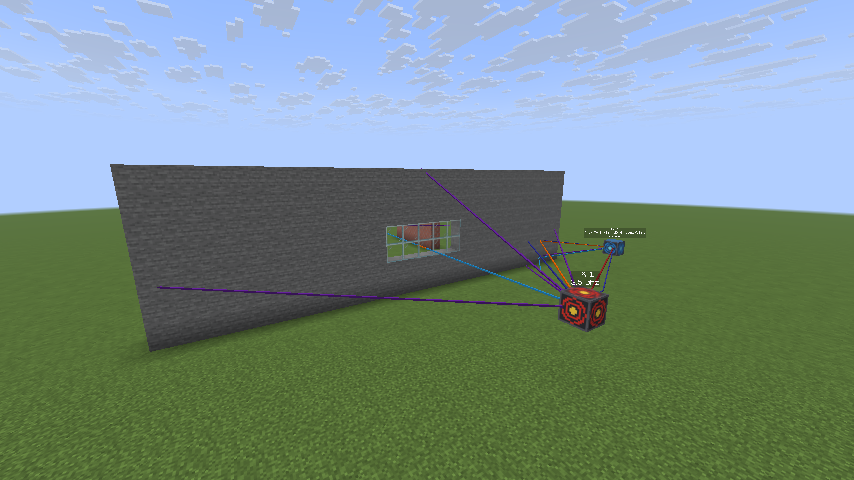
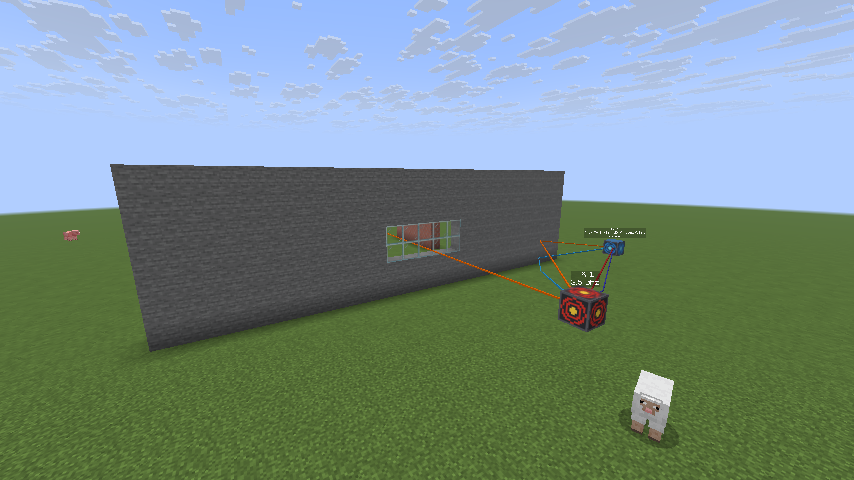
Fix review findings: drop paths bouncing inside walls, material rule mistakes, threading edge cases
- Drop paths that reflect off a wall face from inside a solid block (Sionna treats
  walls as two thin sheets); compute h_freq from the filtered paths
- Material rules: sea lanterns / dried kelp blocks stay solid, heavy_core is metal,
  waterlogged air-like blocks stay water
- Strict true/false parsing on both sides; wall depth cap raised to 64 (bucketed)
- Mod: queue auto-runs behind the triggering block change, skip replies after
  shutdown, only scan chunks that are really loaded, refuse stale ray entities on load

diff --git a/src/mc_sionna/sim.py b/src/mc_sionna/sim.py
@@ -30,6 +30,31 @@ DEFAULTS = {
 _INTERACTIONS = {1: "reflection", 2: "diffuse", 4: "refraction", 8: "diffraction"}
 
 
+def _flag(v) -> bool:
+    return v if isinstance(v, bool) else str(v).strip().lower() in ("true", "1", "yes", "on")
+
+
+def _bounces_inside_solid(mat: np.ndarray, start: np.ndarray, verts: np.ndarray, inter: np.ndarray) -> bool:
+    """True if the path reflects off a face from inside a solid block.
+
+    Sionna sees a wall as two thin sheets with empty space between them, so a ray that
+    crossed one face can bounce off the wall's other faces from the inside. Those paths
+    don't exist in reality. start: tx in Minecraft coords relative to the region origin;
+    verts/inter: this path's bounce points (scene coords) and interaction types.
+    """
+    prev = start
+    for v, kind in zip(verts, inter, strict=True):
+        if kind == 0:
+            break
+        v = scene_to_mc(v)
+        if kind & 3:  # specular or diffuse reflection
+            i = np.floor((prev + v) / 2).astype(int)
+            if np.all(i >= 0) and np.all(i < mat.shape) and mat[tuple(i)] > 0:
+                return True
+        prev = v
+    return False
+
+
 def simulate(req: dict, out_dir: Path) -> dict:
     t0 = time.perf_counter()
     s = DEFAULTS | req.get("settings", {})
@@ -68,7 +93,7 @@ def simulate(req: dict, out_dir: Path) -> dict:
     # Diffraction needs shared mesh edges, so weld coincident corners when it's on.
     # ponytail: merged rectangles still leave T-junctions where no edge is found; split faces
     # at every block corner if diffraction ever matters.
-    scene = load_scene(str(xml_path), merge_shapes=False, remove_duplicate_vertices=bool(s["diffraction"]))
+    scene = load_scene(str(xml_path), merge_shapes=False, remove_duplicate_vertices=_flag(s["diffraction"]))
     scene.frequency = freq
     scene.tx_array = PlanarArray(num_rows=1, num_cols=1, pattern="iso", polarization="V")
     scene.rx_array = PlanarArray(num_rows=1, num_cols=1, pattern="iso", polarization="V")
@@ -83,9 +108,9 @@ def simulate(req: dict, out_dir: Path) -> dict:
         max_depth=int(s["max_depth"]),
         los=True,
         specular_reflection=True,
-        diffuse_reflection=bool(s["diffuse"]),
-        refraction=bool(s["refraction"]),
-        diffraction=bool(s["diffraction"]),
+        diffuse_reflection=_flag(s["diffuse"]),
+        refraction=_flag(s["refraction"]),
+        diffraction=_flag(s["diffraction"]),
         synthetic_array=True,
     )
     solve_s = time.perf_counter() - t_solve
@@ -95,12 +120,16 @@ def simulate(req: dict, out_dir: Path) -> dict:
     a, tau = paths.cir(normalize_delays=False, out_type="numpy")
     a = a[:, 0, :, 0, :, 0]
     valid = np.array(paths.valid, dtype=bool)
-    a = np.where(valid, a, 0)
     verts = np.array(paths.vertices)
     inter = np.array(paths.interactions)
+    for r, t, k in np.argwhere(valid):
+        if _bounces_inside_solid(mat, tx_mc[t] - origin, verts[:, r, t, k], inter[:, r, t, k]):
+            valid[r, t, k] = False
+    a = np.where(valid, a, 0)
     n_sc = int(s["num_subcarriers"])
-    freqs = subcarrier_frequencies(n_sc, s["bandwidth_mhz"] * 1e6 / n_sc)
-    h = paths.cfr(frequencies=freqs, normalize_delays=False, out_type="numpy")[:, 0, :, 0, 0, :]
+    freqs = np.array(subcarrier_frequencies(n_sc, s["bandwidth_mhz"] * 1e6 / n_sc), np.float64)
+    # same formula as Sionna's Paths.cfr, done here so the dropped paths stay dropped
+    h = (a[..., None] * np.exp(-2j * np.pi * freqs * np.where(valid, tau, 0)[..., None])).sum(axis=2)
 
     gain = np.abs(a) ** 2
     links = []
@@ -144,7 +173,7 @@ def simulate(req: dict, out_dir: Path) -> dict:
         "tau": tau.astype(np.float32),
         "valid": valid,
         "h_freq": h.astype(np.complex64),
-        "subcarrier_offsets_hz": np.array(freqs, np.float64),
+        "subcarrier_offsets_hz": freqs,
         "frequency_hz": np.float64(freq),
         "vertices": verts.astype(np.float32),
         "interactions": inter.astype(np.uint32),

diff --git a/mod/src/main/java/dev/mcsionna/Simulation.java b/mod/src/main/java/dev/mcsionna/Simulation.java
@@ -15,8 +15,11 @@ import java.time.Duration;
 import java.util.ArrayList;
 import java.util.Base64;
 import java.util.HashMap;
+import java.util.HashSet;
 import java.util.List;
 import java.util.Map;
+import java.util.Set;
+import java.util.UUID;
 import java.util.function.Consumer;
 import java.util.stream.Stream;
 import net.minecraft.ChatFormatting;
@@ -24,6 +27,7 @@ import net.minecraft.commands.CommandSourceStack;
 import net.minecraft.core.BlockPos;
 import net.minecraft.core.registries.BuiltInRegistries;
 import net.minecraft.network.chat.Component;
+import net.minecraft.server.MinecraftServer;
 import net.minecraft.server.level.ServerLevel;
 import net.minecraft.tags.FluidTags;
 import net.minecraft.util.Brightness;
@@ -59,8 +63,9 @@ public final class Simulation {
 
 	static void autoRun(ServerLevel level, BlockPos pos) {
 		if (Boolean.parseBoolean(McSionna.SETTINGS.get("auto_run"))) {
-			// run after the block change that triggered us has finished
-			level.getServer().execute(() -> request(level, pos, null));
+			// schedule() always queues, so we run after the block change that triggered us has finished
+			MinecraftServer server = level.getServer();
+			server.schedule(server.wrapRunnable(() -> request(level, pos, null)));
 		}
 	}
 
@@ -110,6 +115,11 @@ public final class Simulation {
 		}
 		HTTP.sendAsync(req, HttpResponse.BodyHandlers.ofString()).whenComplete((resp, err) -> level.getServer().execute(() -> {
 			running = false;
+			if (!level.getServer().isSameThread()) {
+				// the server stopped while we waited, so execute() ran us on the HTTP thread
+				pending = null;
+				return;
+			}
 			try {
 				if (err != null) {
 					tell.accept(error("could not reach the Sionna service at " + url + " (is `uv run mc-sionna-server` running?): " + err));
@@ -133,8 +143,15 @@ public final class Simulation {
 		}));
 	}
 
+	/**
+	 * Ray and label entities from the latest drawing. Older ones still saved in unloaded chunks are
+	 * refused when those chunks load (see McSionna), so stale drawings never come back.
+	 */
+	static final Set<UUID> CURRENT = new HashSet<>();
+
 	/** Remove every ray and label entity in loaded chunks. */
 	static int clear(ServerLevel level) {
+		CURRENT.clear();
 		List<Entity> old = new ArrayList<>();
 		for (Entity e : level.getAllEntities()) {
 			if (e.entityTags().contains(RAY_TAG) || e.entityTags().contains(LABEL_TAG)) {
@@ -205,6 +222,7 @@ public final class Simulation {
 		e.setBrightnessOverride(new Brightness(15, 15));
 		e.setViewRange(4f);
 		e.addTag(RAY_TAG);
+		CURRENT.add(e.getUUID());
 		level.addFreshEntity(e);
 	}
 
@@ -214,6 +232,7 @@ public final class Simulation {
 		t.setText(Component.literal(text));
 		t.setBillboardConstraints(Display.BillboardConstraints.CENTER);
 		t.addTag(LABEL_TAG);
+		CURRENT.add(t.getUUID());
 		level.addFreshEntity(t);
 	}
 
@@ -245,7 +264,7 @@ public final class Simulation {
 			boolean[] loaded = new boolean[sx * sz];
 			for (int x = 0; x < sx; x++) {
 				for (int z = 0; z < sz; z++) {
-					loaded[x * sz + z] = level.hasChunk((x0 + x) >> 4, (z0 + z) >> 4);
+					loaded[x * sz + z] = level.getChunkSource().getChunkNow((x0 + x) >> 4, (z0 + z) >> 4) != null;
 				}
 			}
 			for (int x = 0; x < sx; x++) {
@@ -288,7 +307,7 @@ public final class Simulation {
 				if (k.equals("url") || k.equals("radius") || k.equals("auto_run")) {
 					return;
 				}
-				if (v.equals("true") || v.equals("false")) {
+				if (v.equalsIgnoreCase("true") || v.equalsIgnoreCase("false")) {
 					settings.addProperty(k, Boolean.parseBoolean(v));
 				} else {
 					try {

diff --git a/src/mc_sionna/materials.py b/src/mc_sionna/materials.py
@@ -16,17 +16,17 @@ RULES: list[tuple[str, str | None]] = [
     # things that are mostly air or too small to matter at radio wavelengths
     (
         r"leaves|sapling|flower|tulip|orchid|allium|bluet|daisy|poppy|dandelion|lilac|peony|rose_bush"
-        r"|short_grass|tall_grass|fern|dead_bush|vine|lichen|torch|lantern|candle|rail|button"
+        r"|short_grass|tall_grass|fern|dead_bush|vine|lichen|torch|(?<!sea_)lantern|candle|rail|button"
         r"|pressure_plate|sign|banner|carpet|ladder|lever|tripwire|string|cobweb|^fire$|soul_fire|redstone_wire"
-        r"|repeater|comparator|sugar_cane|bamboo$|kelp|seagrass|sea_pickle|coral(?!_block)|mushroom$"
-        r"|wheat|carrots|potatoes|beetroots|melon_stem|pumpkin_stem|sweet_berry|cocoa|nether_wart|^snow$|scaffolding"
+        r"|repeater|comparator|sugar_cane|bamboo$|kelp(?!_block)|seagrass|sea_pickle|coral(?!_block)|mushroom$"
+        r"|wheat|carrots|potatoes|beetroots|melon_stem|pumpkin_stem|sweet_berry|cocoa|nether_wart(?!_block)|^snow$|scaffolding"
         r"|flower_pot|head|skull|end_rod|lightning_rod|chain$|bars$|pointed_dripstone|amethyst_cluster"
         r"|_bud$|moss_carpet|hanging_roots|spore_blossom|glow_lichen|frogspawn|lily_pad|azalea$"
         r"|fence(?!_gate)|_fence_gate",
         None,
     ),
     # ores are mostly rock
-    (r"ore$", "concrete"),
+    (r"_ore$", "concrete"),
     # metal
     (
         r"iron_|gold_block|copper|netherite_block|anvil|cauldron|hopper|heavy_core|raw_iron_block"
@@ -61,7 +61,7 @@ RULES: list[tuple[str, str | None]] = [
     (
         r"stone|cobble|deepslate|andesite|diorite|granite|tuff|basalt|blackstone|concrete|terracotta"
         r"|obsidian|bedrock|prismarine|purpur|netherrack|end_stone|dripstone_block|magma|sandstone"
-        r"|ore$|furnace|smoker",
+        r"|_ore$|furnace|smoker",
         "concrete",
     ),
 ]
@@ -90,7 +90,8 @@ def material_for(block_id: str, has_collision: bool, is_water: bool) -> tuple[st
     path = block_id.split(":", 1)[-1]
     for pattern, material in _COMPILED:
         if pattern.search(path):
-            return material, False
+            # kelp, seagrass, waterlogged fences etc. are still water, not air pockets
+            return ("water" if material is None and is_water else material), False
     if is_water:
         return "water", False
     return (DEFAULT_SOLID, True) if has_collision else (None, False)

diff --git a/tests/test_sim.py b/tests/test_sim.py
@@ -65,3 +65,34 @@ def test_simulate_end_to_end(tmp_path):
     assert (out / "channels.mat").exists()
     assert json.loads((out / "metadata.json").read_text())["origin_mc"] == [100, 60, -40]
     assert len(load_scene(str(out / "scene.xml")).objects) > 0
+
+
+def test_no_paths_bounce_inside_walls(tmp_path):
+    # 1-block stone wall in open air (no ground): only the straight crossing is real
+    sx, sy, sz = 30, 12, 30
+    g = np.zeros((sx, sy, sz), "<u2")
+    g[15, 1:10, 3:27] = 1
+    req = {
+        "origin": [0, 0, 0],
+        "size": [sx, sy, sz],
+        "palette": [
+            {"id": "minecraft:air", "collision": False, "water": False},
+            {"id": "minecraft:stone", "collision": True, "water": False},
+        ],
+        "blocks": base64.b64encode(g.tobytes()).decode(),
+        "transmitters": [{"pos": [5, 4, 14]}],
+        "receivers": [{"pos": [25, 4, 14]}],
+        "settings": {"max_depth": 4, "diffraction": "False"},  # string "False" must mean off
+    }
+    link = simulate(req, tmp_path / "wall")["links"][0]
+    assert link["num_paths"] == 1 and link["delay_spread_ns"] < 0.01
+
+
+def test_material_rules():
+    from mc_sionna.materials import material_for
+
+    assert material_for("minecraft:sea_lantern", True, False)[0] == "concrete"
+    assert material_for("minecraft:dried_kelp_block", True, False) == ("concrete", True)
+    assert material_for("minecraft:heavy_core", True, False)[0] == "metal"
+    assert material_for("minecraft:kelp", False, True)[0] == "water"
+    assert material_for("minecraft:oak_leaves", True, False)[0] is None

diff --git a/src/mc_sionna/scene.py b/src/mc_sionna/scene.py
@@ -52,8 +52,8 @@ def _runs(faces: np.ndarray) -> np.ndarray:
 _PLANES = {0: (1, 2, True), 1: (0, 2, False), 2: (0, 1, True)}
 
 
-MAX_DEPTH = 8  # walls deeper than this many blocks all get the same (already opaque) thickness
-_KEY = 16  # face key = material * _KEY + depth
+MAX_DEPTH = 64  # walls deeper than this count as 64 blocks
+_KEY = 128  # face key = material * _KEY + depth
 
 
 def _depth(solid: np.ndarray, forward: bool) -> np.ndarray:
@@ -63,7 +63,9 @@ def _depth(solid: np.ndarray, forward: bool) -> np.ndarray:
     for i in range(len(solid) - 1, -1, -1) if forward else range(len(solid)):
         run = np.where(solid[i], run + 1, 0)
         d[i] = run
-    return np.minimum(d, MAX_DEPTH)
+    d = np.minimum(d, MAX_DEPTH)
+    # past 8 blocks, round down to a power of two so terrain doesn't make dozens of material copies
+    return np.where(d > 8, 2 ** np.floor(np.log2(np.maximum(d, 1))).astype(np.int32), d)
 
 
 def mesh_blocks(mat: np.ndarray) -> dict[tuple[int, int], np.ndarray]:

diff --git a/mod/src/main/java/dev/mcsionna/McSionna.java b/mod/src/main/java/dev/mcsionna/McSionna.java
@@ -12,6 +12,7 @@ import java.util.Properties;
 import net.fabricmc.api.ModInitializer;
 import net.fabricmc.fabric.api.command.v2.CommandRegistrationCallback;
 import net.fabricmc.fabric.api.creativetab.v1.CreativeModeTabEvents;
+import net.fabricmc.fabric.api.event.lifecycle.v1.ServerEntityEvents;
 import net.fabricmc.loader.api.FabricLoader;
 import net.minecraft.commands.Commands;
 import net.minecraft.core.BlockPos;
@@ -55,6 +56,8 @@ public class McSionna implements ModInitializer {
 	@Override
 	public void onInitialize() {
 		loadSettings();
+		ServerEntityEvents.ALLOW_LOAD.register((entity, level, reason, flag) -> Simulation.CURRENT.contains(entity.getUUID())
+			|| !(entity.entityTags().contains(Simulation.RAY_TAG) || entity.entityTags().contains(Simulation.LABEL_TAG)));
 		CreativeModeTabEvents.modifyOutputEvent(CreativeModeTabs.FUNCTIONAL_BLOCKS).register(out -> {
 			out.accept(TRANSMITTER);
 			out.accept(RECEIVER);

diff --git a/README.md b/README.md
@@ -96,12 +96,14 @@ Coordinates: the scene is z-up with the region's corner at the origin. A Minecra
   Blocks with no rule are treated as concrete and listed in a chat warning. Edit the table to change any of this.
 - **Treated as air:** leaves, flowers, grass, torches, fences, rails, and similar small blocks. Sionna can't model foliage as a lossy volume, and solid leaf cubes would make every tree a wall.
 - **Surfaces:** only block faces that touch air are kept, and neighboring faces of the same material are merged into big rectangles. Faces on the outer edge of the region are dropped, so the cut-off underground doesn't become a giant wall.
-- **Wall thickness:** Sionna sets a thickness per material, not per surface, so each material gets one copy per wall depth (`concrete-1`, `concrete-2`, ... up to 8 blocks). Each face carries half of `depth x thickness_per_block_m`, so a ray crossing the wall goes through the full amount. At the default 0.2 m per block, a 1-block wall acts like a normal 20 cm wall, and thicker walls lose more. Set it to `1.0` for true 1 m blocks, which makes almost every wall opaque. Glass is always 6 mm per face, like a real window.
+- **Wall thickness:** Sionna sets a thickness per material, not per surface, so each material gets one copy per wall depth (`concrete-1`, `concrete-2`, ...; exact up to 8 blocks, then rounded down to 16, 32 or 64). Each face carries half of `depth x thickness_per_block_m`, so a ray crossing the wall goes through the full amount. At the default 0.2 m per block, a 1-block wall acts like a normal 20 cm wall, and thicker walls lose more. Set it to `1.0` for true 1 m blocks, which makes almost every wall opaque. Glass is always 6 mm per face, like a real window. A wall made of layers of different blocks counts all its depth but only the materials of its two outer faces.
+- **Paths that bounce inside a wall are dropped.** Sionna sees a wall as two thin sheets with empty space between them, so on its own it finds rays that cross one face and then reflect off the wall's other faces from the inside. Those don't exist, so they are removed before anything is drawn or exported.
 - **Frequencies outside a material's ITU range** (the ground types only cover 1-10 GHz) use the closest ITU values and print a warning, instead of failing.
 
 ## Limits
 
 - **Drawing:** rays are drawn as `block_display` entities, so every player sees them, including players without the mod. A few thousand pieces is fine; tens of thousands will lag. Raise `max_drawn_paths` with care.
+- **Old drawings:** `/sionna clear` and new runs remove rays in loaded chunks. Rays saved in chunks that aren't loaded are thrown away when those chunks load, and drawings don't survive a server restart.
 - **Unloaded areas:** chunks that aren't loaded count as air, rather than making the server generate them.
 - **Diffraction:** when on, Sionna only finds edges where merged rectangles share corners exactly, and never between two different materials. Expect it to miss many building corners.
 - **Block shapes:** every block with collision counts as a full cube: slabs, stairs, panes, and doors.
